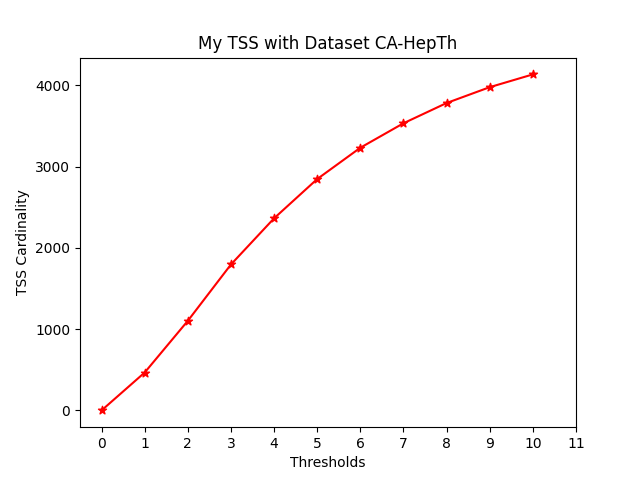
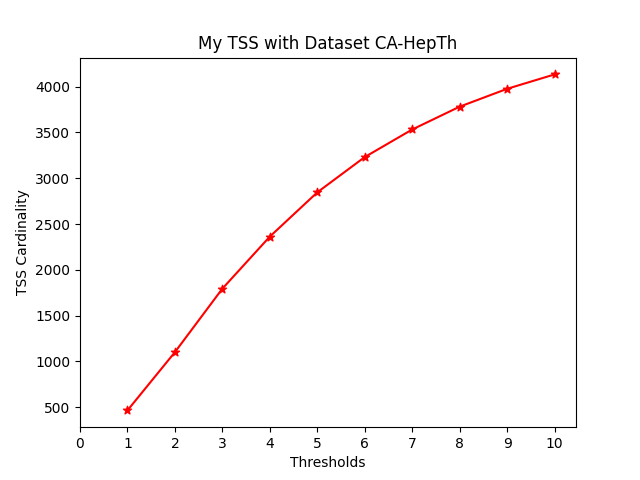
new correctness graphics + readme update

diff --git a/TSS_correctness.py b/TSS_correctness.py
@@ -13,7 +13,7 @@ else:
     sys.exit("Dataset path has to be specified")
 
 #datasetPaths = ['./Datasets/Arxiv_GR-QC/CA-GrQc.txt', './Datasets/Arxiv_HEP-TH/CA-HepTh.txt']
-threshold_const = [0,1,2,3,4,5,6,7,8,9,10]
+threshold_const = [1,2,3,4,5,6,7,8,9,10]
 
 #To check algorithm correctness we execute TSS algorithms (without considering probability on edges)
 #  on some datasets experimented on paper, so we expect the same results 

diff --git a/README.md b/README.md
@@ -185,19 +185,15 @@ def target_set_selection(graph, node_threshold_mapping):
         node_id_to_add_to_ts = None
 
         for v in graph.Nodes():
-            #CASE 1:if exists a node with threshold == 0 it is already active so It influences other nodes in its neighbourhood
-            #and then delete it from the network 
+            #CASE 1
             if node_threshold_mapping[v.GetId()] == 0: 
                 active_ready_set.add(v.GetId())
             else:
                 if v.GetDeg() < node_threshold_mapping[v.GetId()]:
-                    #CASE 2:it exists a node that has the degree < of its threshold
-                    #so add it to the target set S because having a few link nobody can influence it
-                    #and then delete it from the network 
+                    #CASE 2 
                     node_id_to_add_to_ts = v.GetId()
                 else:
-                    #CASE 3:pick a nod v with the selected criteria, decrement of 1 its threshold neighborhoods
-                    #and then delete it from the network
+                    #CASE 3
                     denominator = v.GetDeg()*(v.GetDeg()+1)
                     if denominator == 0: ratio = 0
                     else: ratio = node_threshold_mapping[v.GetId()] / denominator
@@ -229,7 +225,10 @@ def target_set_selection(graph, node_threshold_mapping):
                 graph.DelNode(max_node_id)
 
     return S
-``` 
+```
+
+We can notice the use of the function **"GetNodesAtHop(StartNId, Hop, IsDir)"** provided by SNAP library that is a graph method that finds the node ids of all the nodes that are at distance *Hop* from node *StartNId*. The parameter *isDir* indicates whether the edges should be considered directed (True) or undirected (False), like in this case. The function returns the number of nodes found (that is not needed in this case) and *NIdV* a vector of ints, namely node ids of nodes Hop distance away from StartNId.
+
 
 ## Notes on probabilistic nature
 Because of the initial edge pre-computation, that removes edges from the graph, is based on probability, in two different iterations of the algorithm we can end up with slightly different solutions. This is because a certain number of edges may be removed in one iteration and a slightly different number in the other.
@@ -296,7 +295,7 @@ In fact, we can see, for each dataset, the number of edges by applying a constan
 
 <img src="graphics/edges_precomputation_comparison.png"/>
 
-What do we notice?
+*What do we notice?*
 - Using constant values as probability on the edges, what we expect happens, that is with a constant as low as 0.2 many edges are removed from the original graph while with the constant 0.6 a smaller number of edges are removed.
 - Using a Random probability we notice how the number of edges is roughly halved.
 - Finally we note that by using a probability on the edges which is a function of the degree of the source and recipient nodes of each edge, we have a very high number of resulting edges, or rather very few edges are removed. This indicates that the nodes have a fairly high degree, which results in a fairly high probability on the edges which means that most of the nodes influence each other a lot. Practically it means that the pseudorandom number generated is almost never able to be greater and consequently very few edges are removed.
@@ -328,6 +327,22 @@ The combination of these functions results in 16 tests on each dataset. In parti
 | graphic 2 	| Constant 0.6         	| 1.Constant = 2 <br> 2.Constant = 6 <br> 3.Degree_based (a=1, b=1) <br> 4.Degree_based (a=2, b=7) <br> 	|
 | graphic 3 	| Random               	| 1.Constant = 2 <br> 2.Constant = 6 <br> 3.Degree_based (a=1, b=1) <br> 4.Degree_based (a=2, b=7) <br> 	|
 | graphic 4 	| Degree_based         	| 1.Constant = 2 <br> 2.Constant = 6 <br> 3.Degree_based (a=1, b=1) <br> 4.Degree_based (a=2, b=7) <br> 	|
+
+***The standard output of the tests, for each dataset, can be found in "tests_output" folder**
+
+Below we show the results of the tests in graphics produced with "pyplot" of python.
+
+- **DATASET: musae-twitch** <br>
+<img src="./graphics/algorithm_execution/musae_ENGB_edges/musae_ENGB_edgesavg_ts_size_0.png" width="400"/> <img src="./graphics/algorithm_execution/musae_ENGB_edges/musae_ENGB_edgesavg_ts_size_1.png" width="400"/>
+
+- **DATASET: ca-GrQc**
+
+
+- **DATASET: ca-HepTh**
+
+*What do we notice?*
+- The first thing we can notice is that in all tests, on all datasets, although the resulting target set size is different, the same proportion is maintained as the threshold function varies.
+
 
 
 # Conclusions
